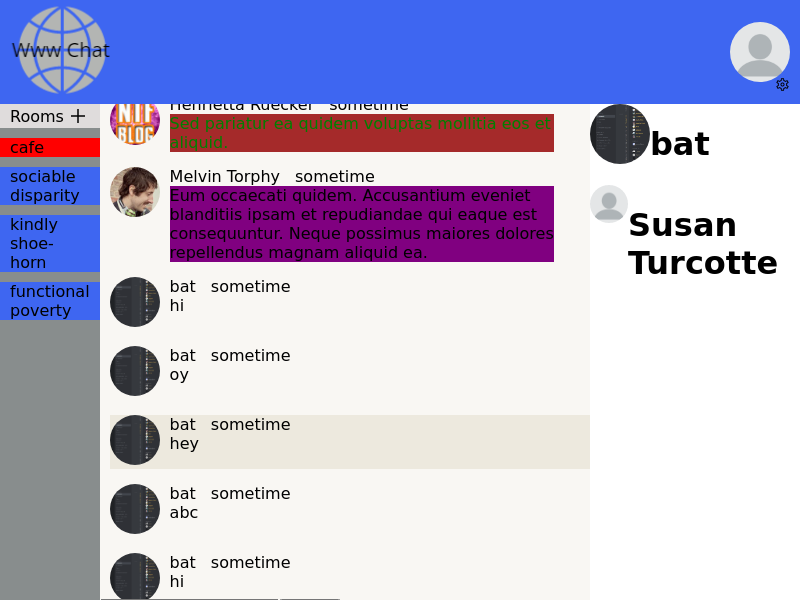
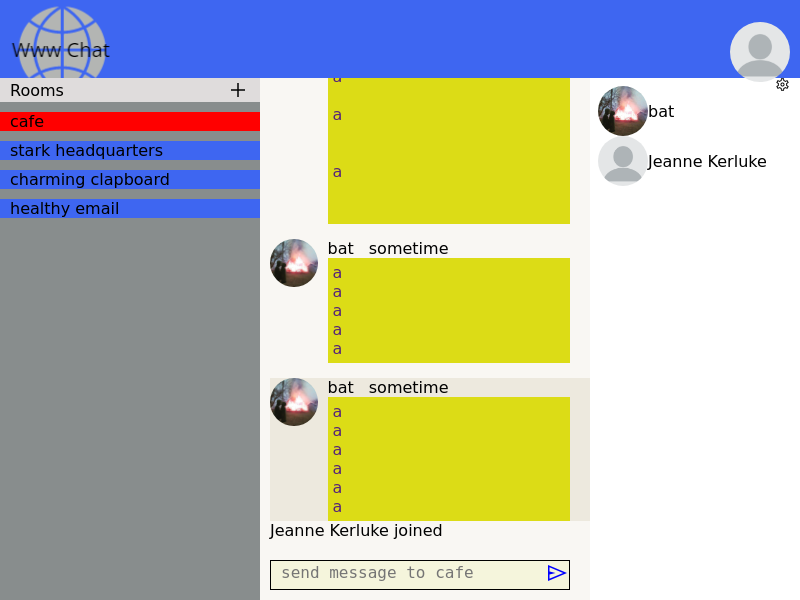
message-form update

diff --git a/frontend/src/components/message_form/MessageForm.js b/frontend/src/components/message_form/MessageForm.js
@@ -1,18 +1,22 @@
-import { useState, useRef } from "react";
+import { useState, useRef, useEffect } from "react";
 import { useSelector } from "react-redux";
 import { selectUser } from "../../features/user/userSlice";
 import { selectRoom } from "../../features/room/roomSlice";
 import { useContext } from "react";
+import autosize from "autosize";
 import { WebSocketContext } from "../socket/WebSocketProvider";
 import "./message_form.css";
-const MessageForm = ({ setTextAreaHeight }) => {
+const MessageForm = ({ setTextAreaHeight, messagesEl, messagesIsAtBottom }) => {
   const ws = useContext(WebSocketContext);
   const user = useSelector(selectUser);
   const room = useSelector(selectRoom);
   const textAreaEl = useRef(null);
+  const prevHeight = useRef(null);
+  const messageFormEl = useRef(null);
   const [content, setContent] = useState("");
-
+  autosize(textAreaEl.current);
   function handleSubmit(e) {
+    console.log("argument on submit", e);
     console.log("content on submit", content);
     const messageObj = {
       userId: user.id,
@@ -22,45 +26,48 @@ const MessageForm = ({ setTextAreaHeight }) => {
       background: user.settings.messageBackground,
     };
     ws.sendMessage(messageObj, user);
-    setContent("");
   }
 
-  function handleKeyPress(e) {
-    if (e.charCode === 13 && !e.shiftKey) {
-      handleSubmit();
+  function handleKeyDown(e) {
+    if (!e.shiftKey && e.code === "Enter") {
+      handleSubmit(e.target.value);
+      setContent("");
     }
   }
 
   function handleChange(e) {
-    const element = textAreaEl.current;
-    const prevHeight = element.style.height;
-    // save previous height and if previous height and new height are different, re-render messenger component so that the elements are positioned correctly.
-    element.style.height = "0px";
-    element.style.height = element.scrollHeight + "px";
-    console.log(prevHeight, element.style.height);
-    if (prevHeight != element.style.height) {
-      setTextAreaHeight(element.style.height);
-      // re-render messenger
-      // set scroll of messages element to bottom every time
-    }
-    console.log("Value", e.target.value);
-    console.log("VALUE is newline", e.target.value === "\n");
     setContent(e.target.value === "\n" ? "" : e.target.value);
+
+    const textAreaHeightChanged =
+      prevHeight.current !== textAreaEl.current.clientHeight;
+
+    if (textAreaHeightChanged && messagesIsAtBottom.current === true) {
+      if (messagesIsAtBottom) {
+        messagesEl.current.scrollTop = messagesEl.current.scrollHeight;
+      }
+    }
+    prevHeight.current = textAreaEl.current.clientHeight;
   }
 
   return (
-    <form className="message-form">
+    <div className="message-form">
       <textarea
-        value={content}
-        onChange={handleChange}
-        onKeyPress={handleKeyPress}
-        placeholder={`Send message to ${room.name}`}
         ref={textAreaEl}
-      />
-
-      <span class="material-symbols-outlined send-btn">send</span>
-    </form>
+        placeholder={`send message to ${room.name}`}
+        onKeyDown={handleKeyDown}
+        onChange={handleChange}
+        value={content}
+      ></textarea>
+      <div className="send-btn-container">
+        <span className="material-symbols-outlined send-btn">send</span>
+      </div>
+    </div>
   );
 };
 
 export default MessageForm;
+
+// set the message form height instead.
+
+// then let textarea take up 100% of it.
+// when message form is locked, text area should begin to scroll.

diff --git a/socketHandlers/userHandler.js b/socketHandlers/userHandler.js
@@ -16,12 +16,20 @@ module.exports = (io, socket) => {
     }
   }
 
+  // okay so we need to create rooms_users entry when a user joins a room. This means every time a user joins, we're talking to the database. Does it really matter at this point?
+
+  // should we worry about it later?
+
+  // the rooms_users entry should tell us information about the users priveledge in a room.
+
+  // what if room data is attached to socket users. And when a user makes a call to
+
   function leaveRoom(roomId) {
     socket.leave(roomId);
   }
 
   function userConnecting(user, room) {
-    socket.user = user;
+    socket.user = user; // take user id and get pertinent user data. We want to do this at the start so that we can see if a user has joined a room before. Or simply, when a user clicks on a room, make an http request first.
     joinRoom(user, room);
   }
 

diff --git a/frontend/src/components/messenger/Messenger.js b/frontend/src/components/messenger/Messenger.js
@@ -1,14 +1,22 @@
 import Messages from "../messages/Messages";
 import MessageForm from "../message_form/MessageForm";
-import { useState } from "react";
+import { useState, useRef } from "react";
 import "./messenger.css";
 
 const Messenger = () => {
   const [textAreaHeight, setTextAreaHeight] = useState();
+  const [messagesEl, setMessagesEl] = useState(null);
+  const [messagesIsAtBottom, setMessagesIsAtBottom] = useState(null);
   return (
     <div className="messenger">
-      <Messages textAreaHeight={textAreaHeight} />
-      <MessageForm setTextAreaHeight={setTextAreaHeight} />
+      <Messages
+        setMessagesEl={setMessagesEl}
+        setMessagesIsAtBottom={setMessagesIsAtBottom}
+      />
+      <MessageForm
+        messagesEl={messagesEl}
+        messagesIsAtBottom={messagesIsAtBottom}
+      />
     </div>
   );
 };

diff --git a/frontend/src/components/messages/Messages.js b/frontend/src/components/messages/Messages.js
@@ -4,7 +4,7 @@ import { selectMessages } from "../../features/messages/messagesSlice";
 import Message from "../message/Message";
 import "./messages.css";
 
-const Messages = ({ textAreaHeight }) => {
+const Messages = ({ textAreaHeight, setMessagesEl, setMessagesIsAtBottom }) => {
   const messages = useSelector(selectMessages);
   const messagesEl = useRef(null);
   const isAtBottom = useRef(null);
@@ -33,6 +33,10 @@ const Messages = ({ textAreaHeight }) => {
     }
   }, [messages, textAreaHeight]);
 
+  useEffect(() => {
+    setMessagesEl(messagesEl);
+    setMessagesIsAtBottom(isAtBottom);
+  }, []);
   return (
     <div className="messages" onScroll={handleScroll} ref={messagesEl}>
       {messages.map((message, i) => (

diff --git a/frontend/src/components/create_room/CreateRoom.js b/frontend/src/components/create_room/CreateRoom.js
@@ -22,6 +22,12 @@ const CreateRoom = ({ toggleDisplay, display }) => {
 
   return (
     <div className="create-room-container">
+      <div
+        className="close-create-room-btn"
+        onClick={() => toggleDisplay(!display)}
+      >
+        X
+      </div>
       <form onSubmit={handleSubmit}>
         <label for="room-name">Room Name</label>
         <input type="text" id="name" onChange={handleChange} />
@@ -34,7 +40,6 @@ const CreateRoom = ({ toggleDisplay, display }) => {
         />
         <input type="submit" value="create room" />
       </form>
-      <div onClick={() => toggleDisplay(!display)}>X</div>
     </div>
   );
 };

diff --git a/frontend/src/components/message_form/message_form.css b/frontend/src/components/message_form/message_form.css
@@ -1,8 +1,8 @@
 .message-form {
   height: 100%;
+  max-height: 50%;
   display: flex;
-  flex-basis: 5%;
-  padding-bottom: 5px;
+  flex-basis: 6%;
   background: #f5f5dc;
   margin-right: 20px;
   margin-left: 10px;
@@ -11,15 +11,21 @@
 
 .message-form textarea {
   width: 100%;
+  max-height: 100%;
+  height: 100%;
   border: none;
   resize: none;
   background: none;
   padding-left: 10px;
-  white-space: pre-wrap;
-  overflow: hidden;
+  font-size: 16px;
 }
 
 .message-form textarea:focus {
   border: none;
   outline: none;
+}
+
+.send-btn {
+  color: blue;
+  height: 100%;
 }

diff --git a/models/message.js b/models/message.js
@@ -31,11 +31,11 @@ async function getMessagesDB(roomId) {
   const messages = await Message.findAll({
     raw: true,
     nest: true,
-    include: [{ model: User, attributes: ["name", "image"] }],
-    where: { roomId },
-    attributes: ["content", "color", "background", "createdAt"],
-    order: [["createdAt", "ASC"]],
+    order: [["createdAt", "DESC"]],
     limit: 40,
+    attributes: ["content", "color", "background", "createdAt"],
+    where: { roomId },
+    include: [{ model: User, attributes: ["name", "image"] }],
   });
 
   return messages;

diff --git a/frontend/src/components/create_room/createRoom.css b/frontend/src/components/create_room/createRoom.css
@@ -1,6 +1,28 @@
 .create-room-container {
-  width: 50%;
-  height: 50%;
+  width: 30%;
+  height: 30%;
+  display: flex;
+  padding: 20px;
+  flex-direction: column;
   position: absolute;
-  background: gray;
+  background: blue;
+  color: white;
+  font-size: 20px;
+}
+
+.create-room-container form {
+  display: flex;
+  justify-content: space-between;
+  height: 70%;
+  flex-direction: column;
+}
+
+.close-create-room-btn {
+  display: flex;
+  justify-content: flex-end;
+}
+
+.close-create-room-btn:hover {
+  cursor: pointer;
+  color: gray;
 }

diff --git a/frontend/src/components/color_picker/ColorPicker.js b/frontend/src/components/color_picker/ColorPicker.js
@@ -77,7 +77,11 @@ const ColorPicker = ({ setDisplayColorPicker }) => {
         </div>
       </div>
 
-      <ChromePicker color={determinePickerColor()} onChange={handleChange} />
+      <ChromePicker
+        disableAlpha
+        color={determinePickerColor()}
+        onChange={handleChange}
+      />
       <div className="color-picker-buttons">
         <button
           style={{ background: selected === "color" ? "gray" : "white" }}

diff --git a/frontend/src/components/room/Room.js b/frontend/src/components/room/Room.js
@@ -17,6 +17,10 @@ const Room = ({ room }) => {
     console.log(currentRoom.id);
     console.log(room.id);
     if (currentRoom.id !== room.id) {
+      // await fetchIsBanned
+      // if (isBanned)
+      // notify and do nothing
+
       const messages = await fetchMessages(room.id);
       dispatch(setMessages(messages));
       ws.leaveRoom(currentRoom.id);

diff --git a/controllers/messages.js b/controllers/messages.js
@@ -4,7 +4,7 @@ async function getMessages(req, res) {
   const { roomId } = req.body;
   console.log("roomId in getMessages", roomId);
   const messages = await getMessagesDB(roomId);
-
+  messages.reverse();
   res.json({ messages });
 }
 

diff --git a/frontend/src/components/messenger/messenger.css b/frontend/src/components/messenger/messenger.css
@@ -6,4 +6,5 @@
   width: 100%;
   min-width: 330px;
   flex-direction: column;
+  padding-bottom: 10px;
 }
